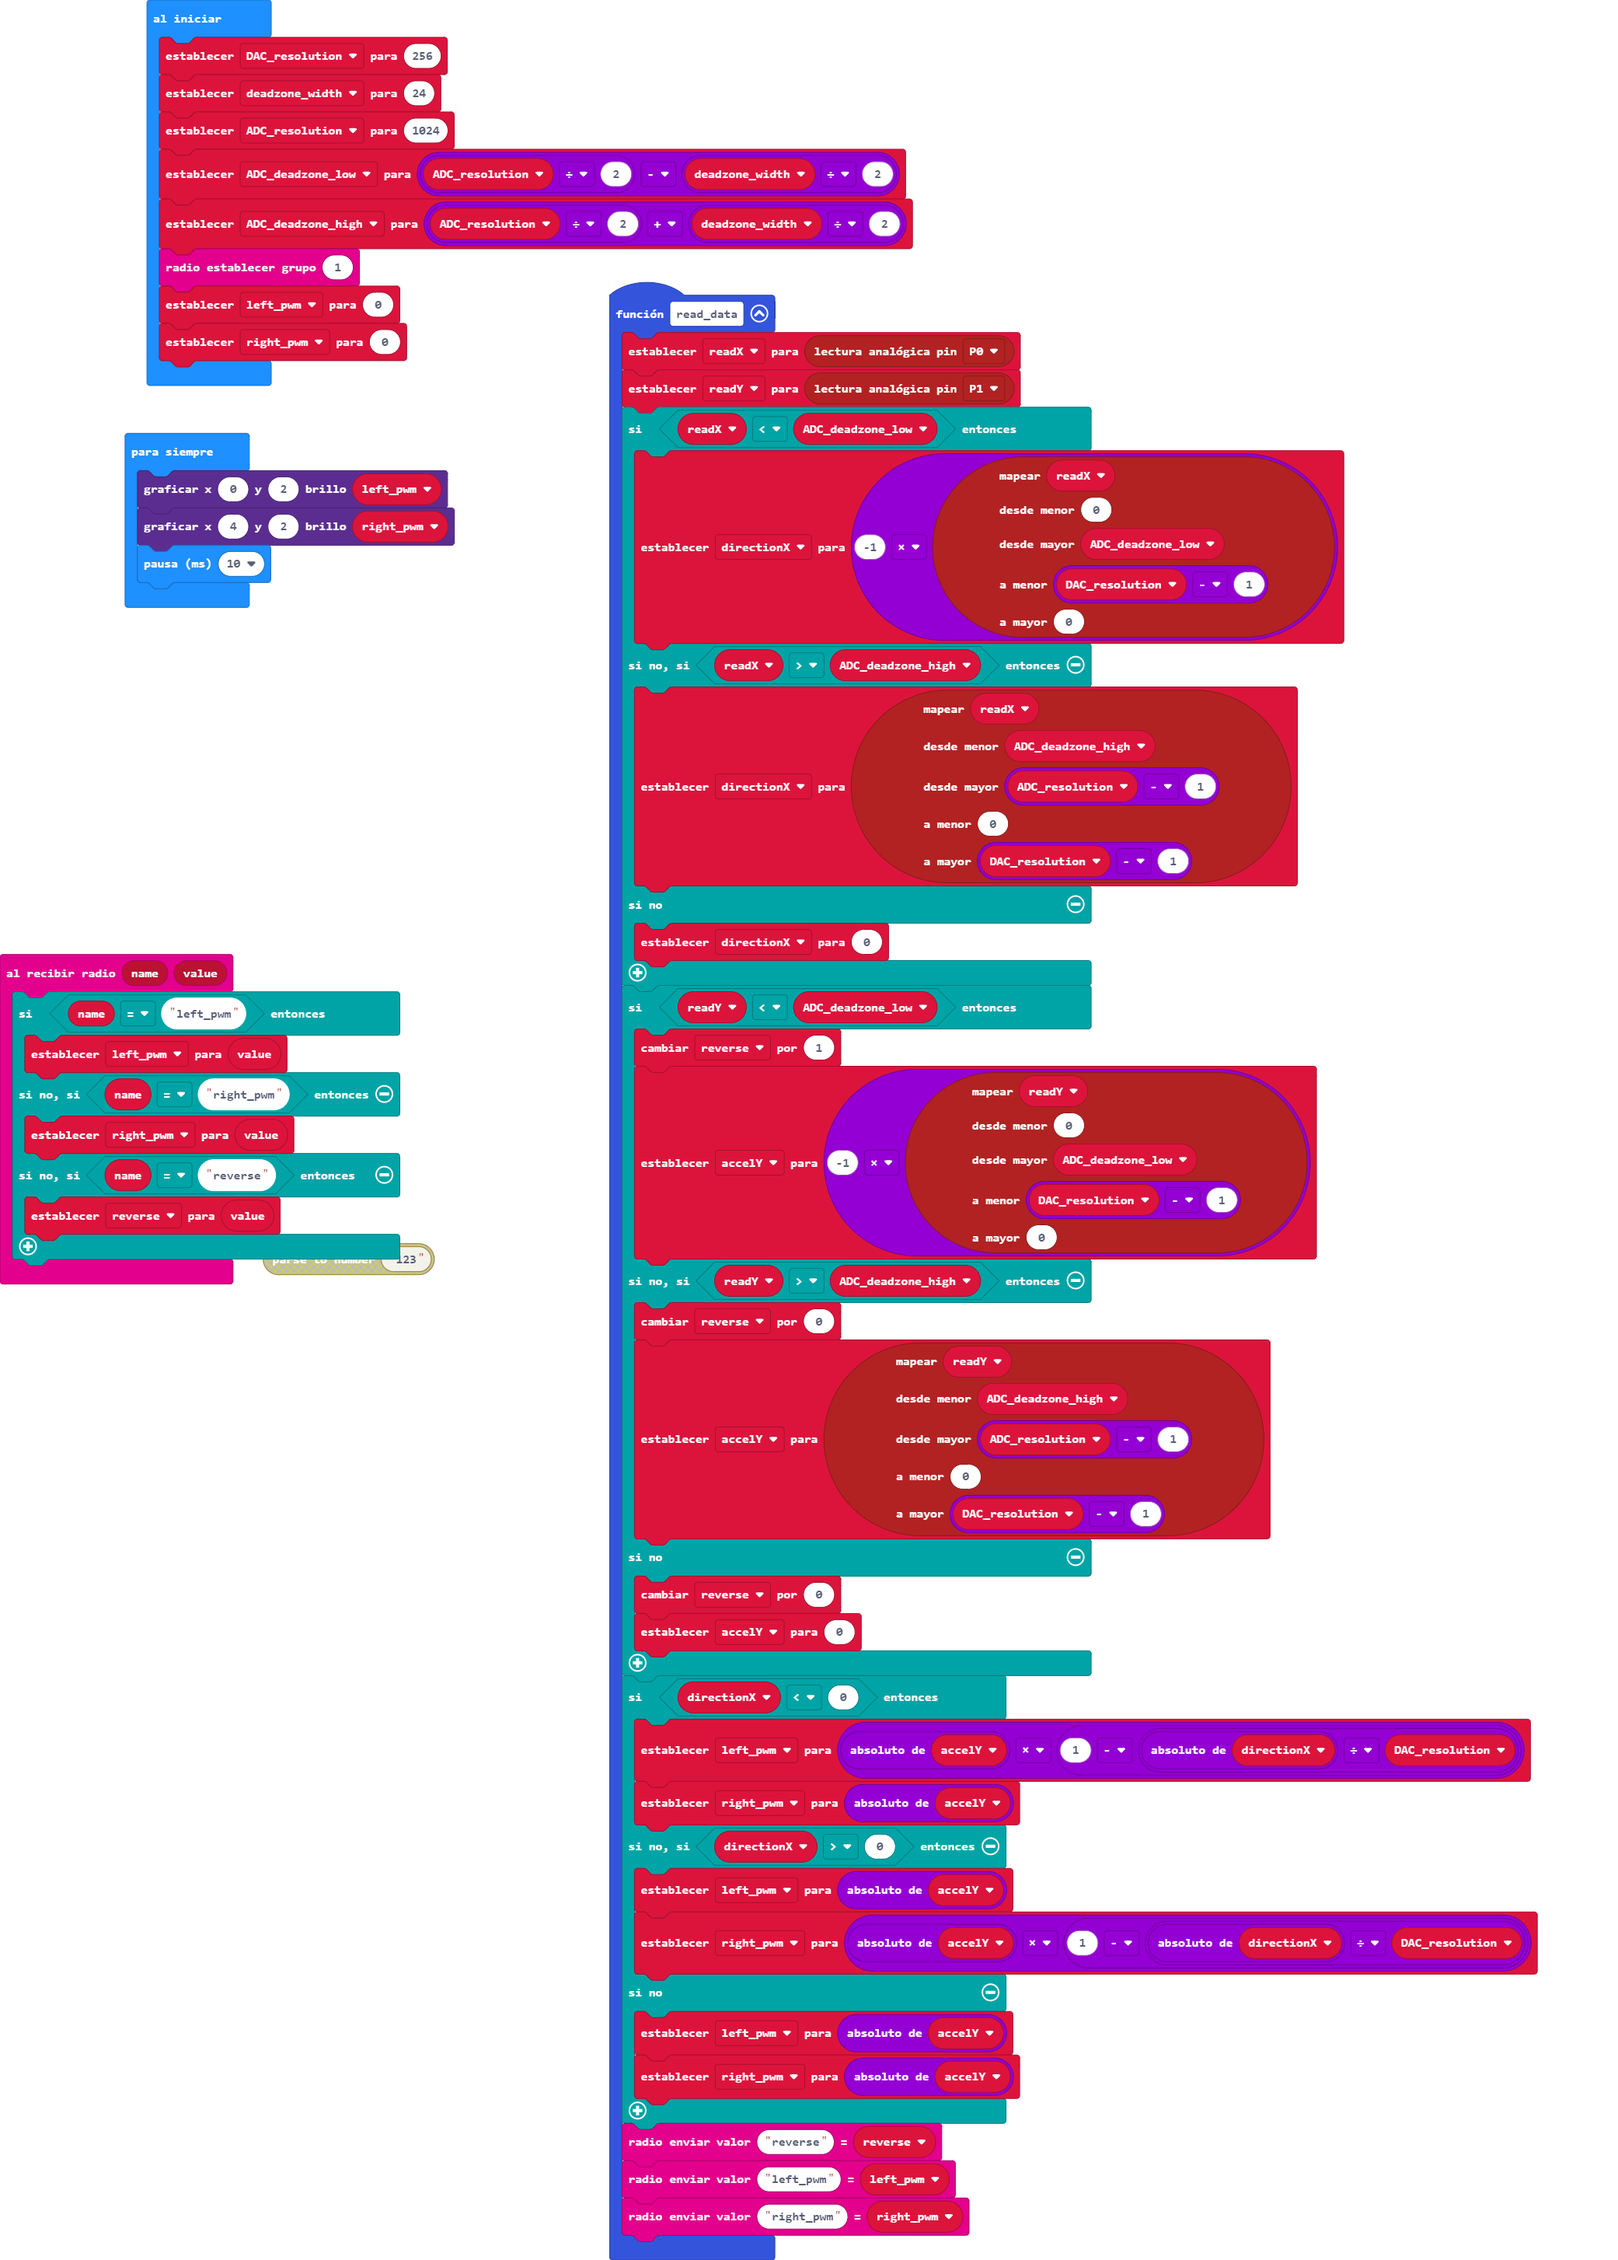
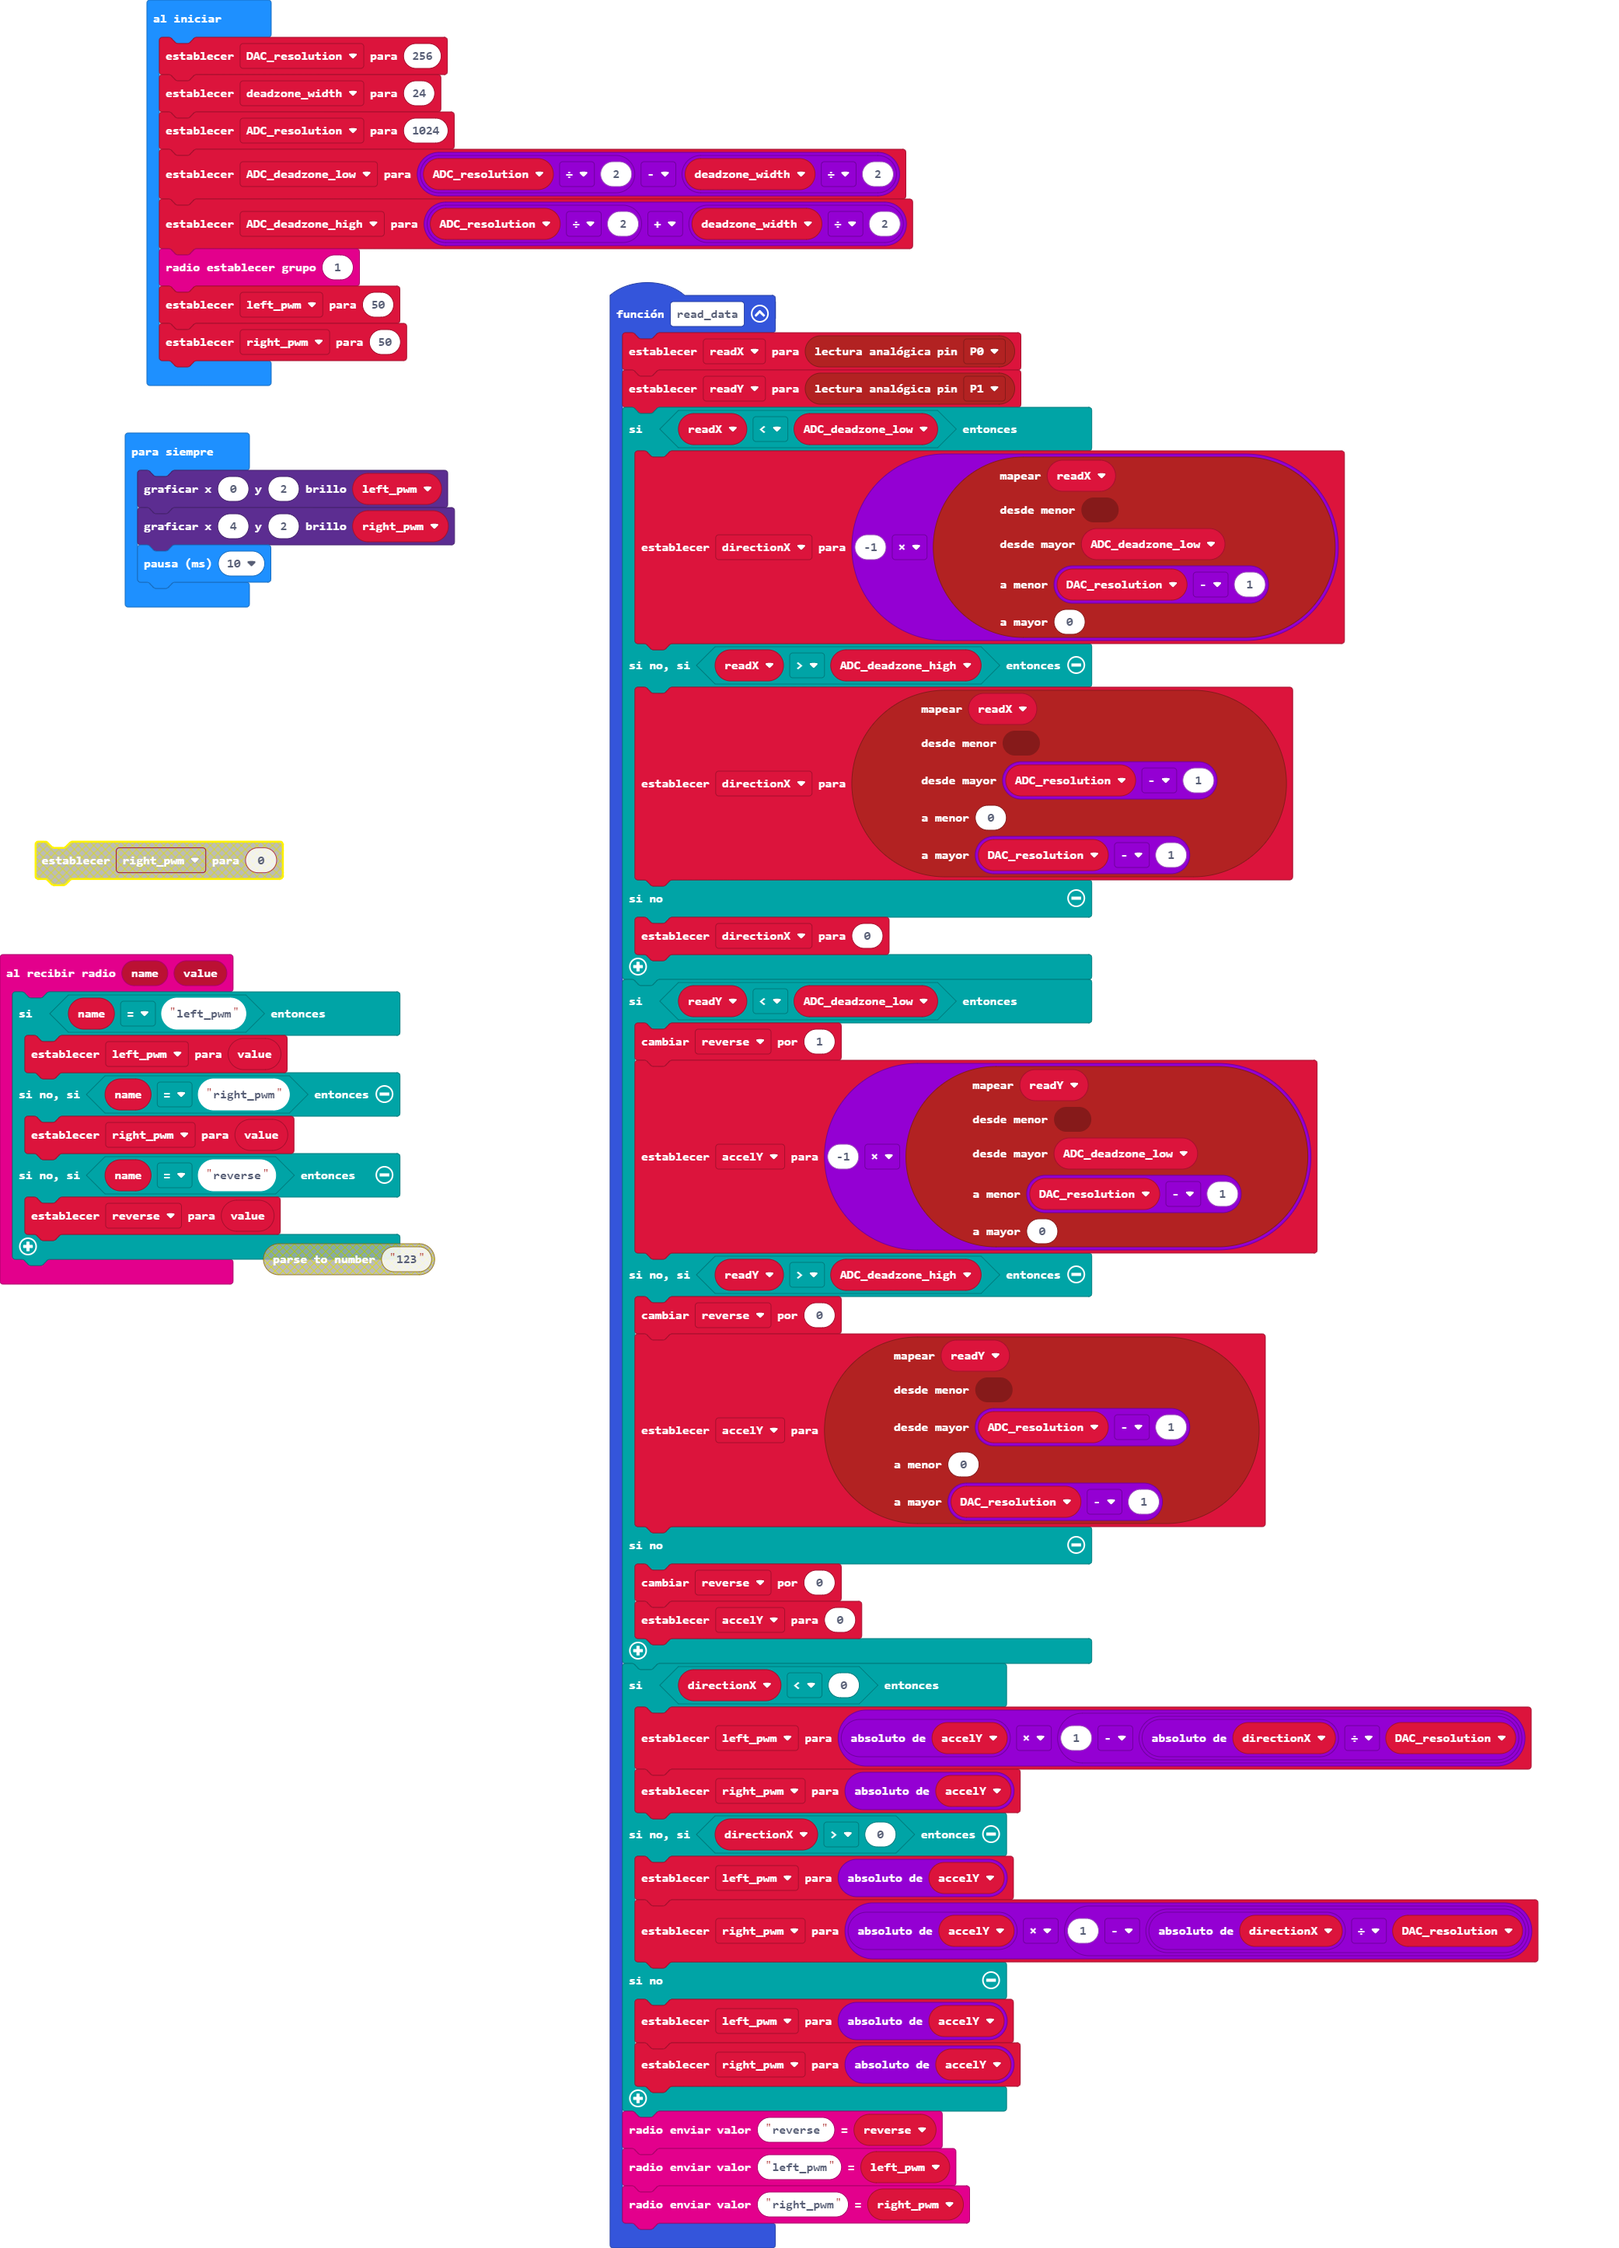
receiver data

diff --git a/main.ts b/main.ts
@@ -12,7 +12,7 @@ function read_data () {
     } else if (readX > ADC_deadzone_high) {
         directionX = pins.map(
         readX,
-        ADC_deadzone_high,
+        0,
         ADC_resolution - 1,
         0,
         DAC_resolution - 1
@@ -33,7 +33,7 @@ function read_data () {
         reverse += 0
         accelY = pins.map(
         readY,
-        ADC_deadzone_high,
+        0,
         ADC_resolution - 1,
         0,
         DAC_resolution - 1
@@ -82,8 +82,8 @@ ADC_resolution = 1024
 ADC_deadzone_low = ADC_resolution / 2 - deadzone_width / 2
 ADC_deadzone_high = ADC_resolution / 2 + deadzone_width / 2
 radio.setGroup(1)
-left_pwm = 0
-right_pwm = 0
+left_pwm = 50
+right_pwm = 50
 basic.forever(function () {
     led.plotBrightness(0, 2, left_pwm)
     led.plotBrightness(4, 2, right_pwm)
